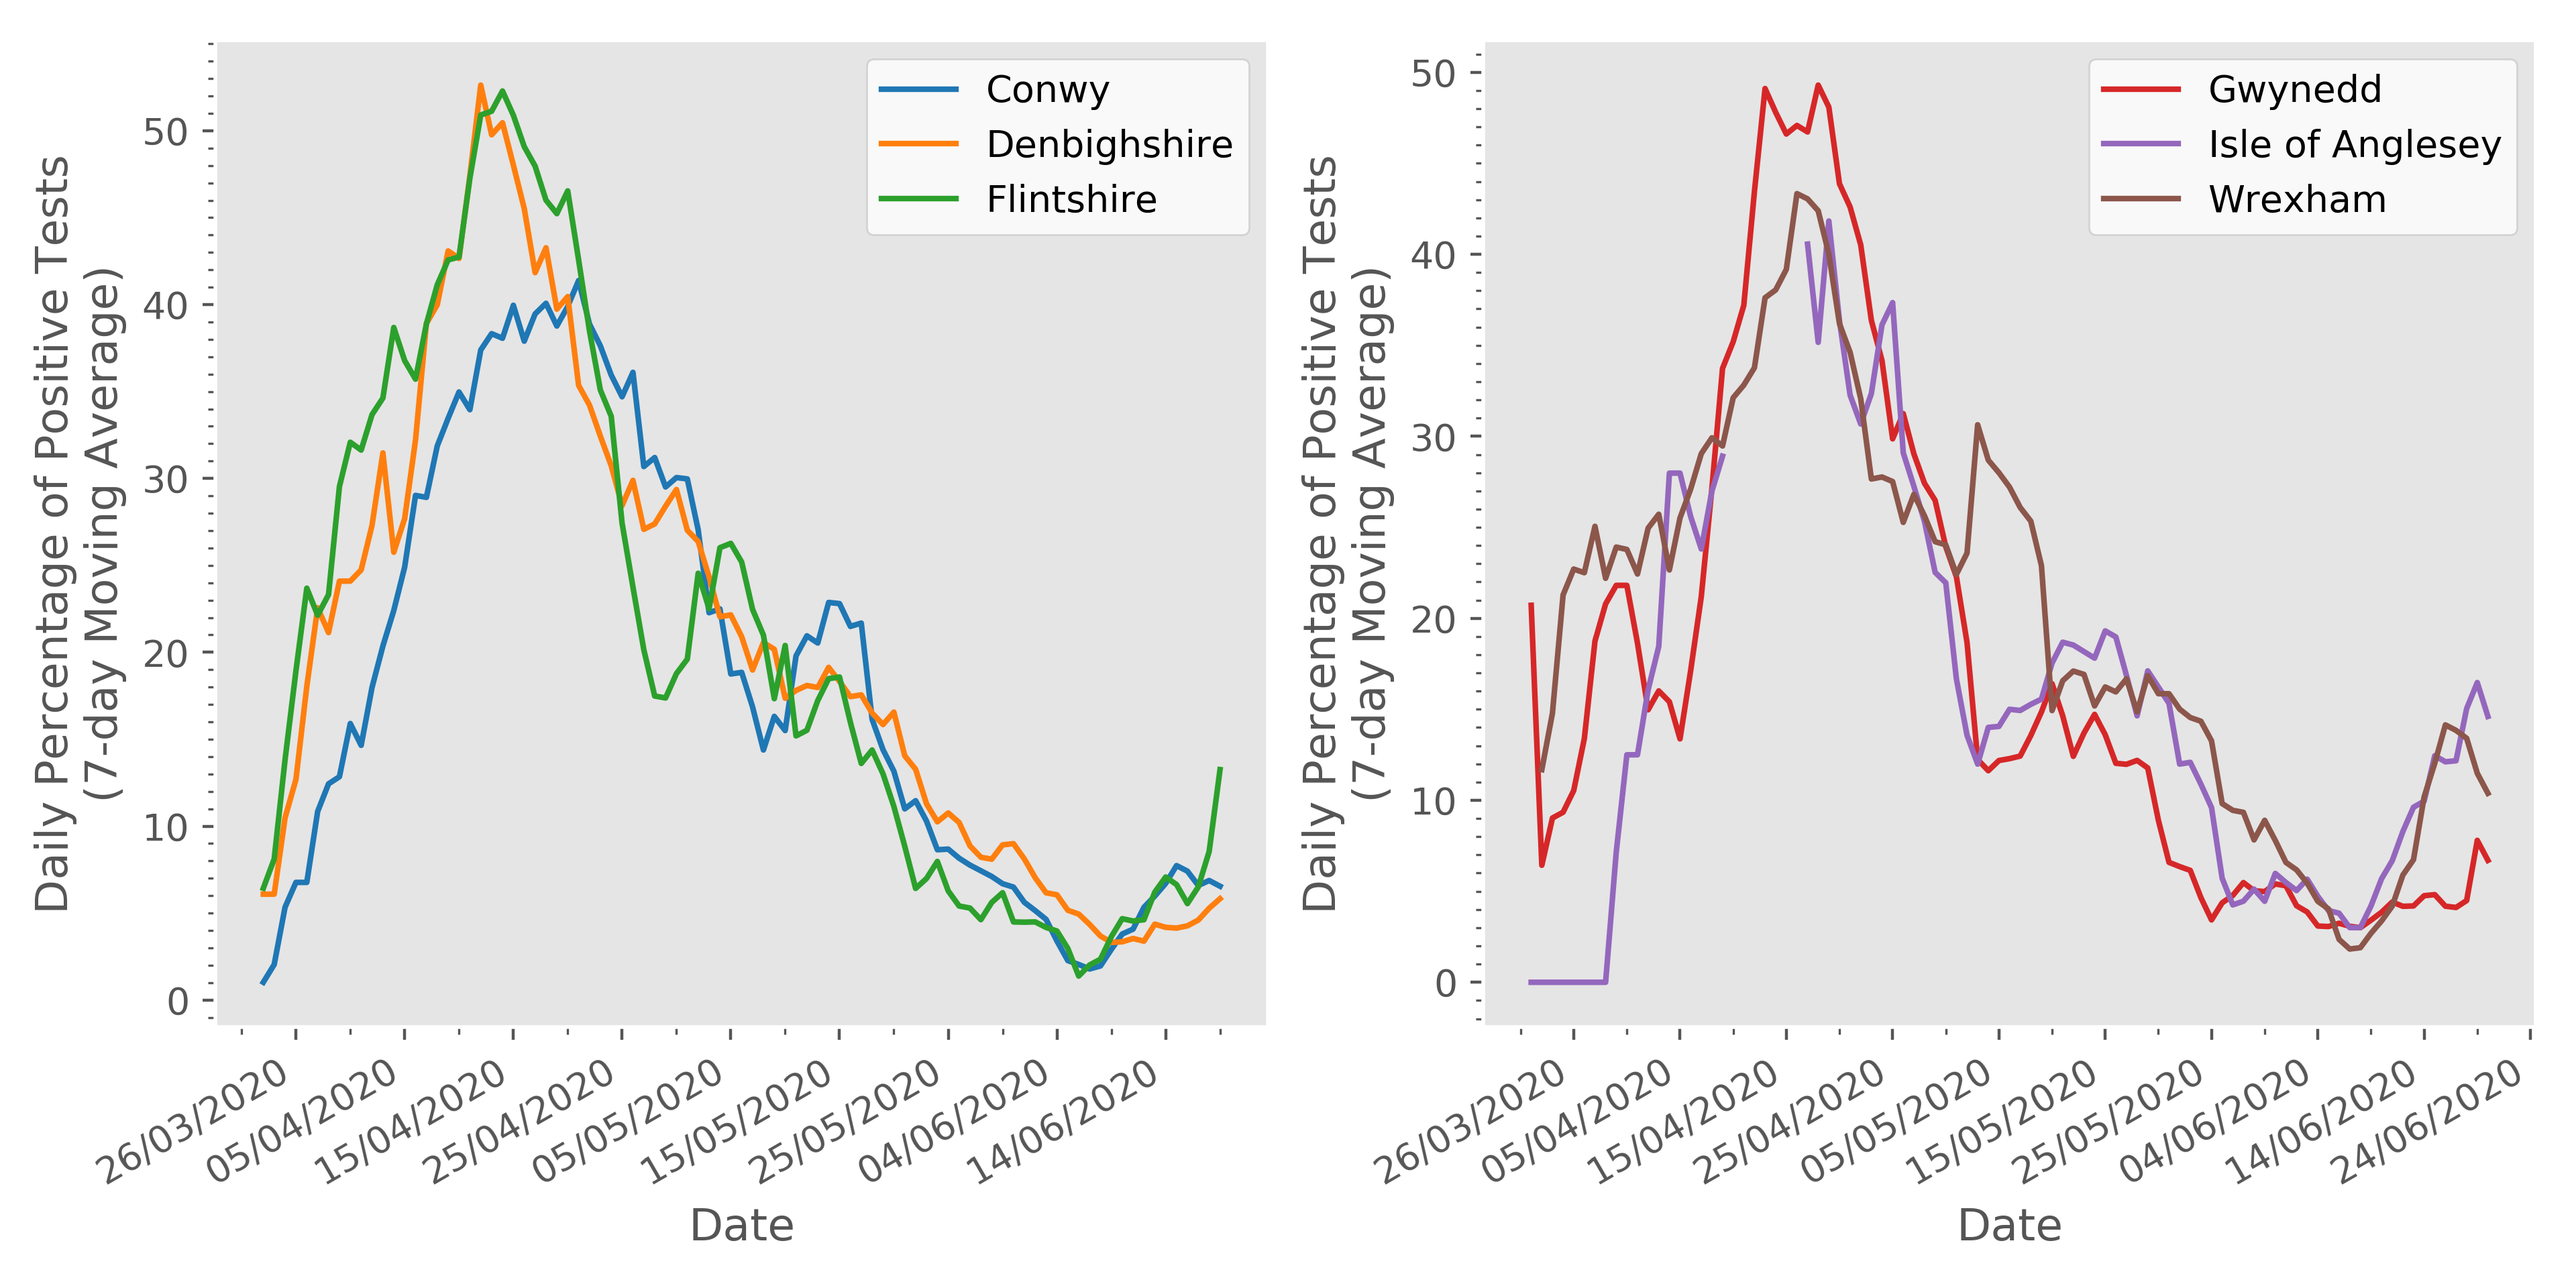
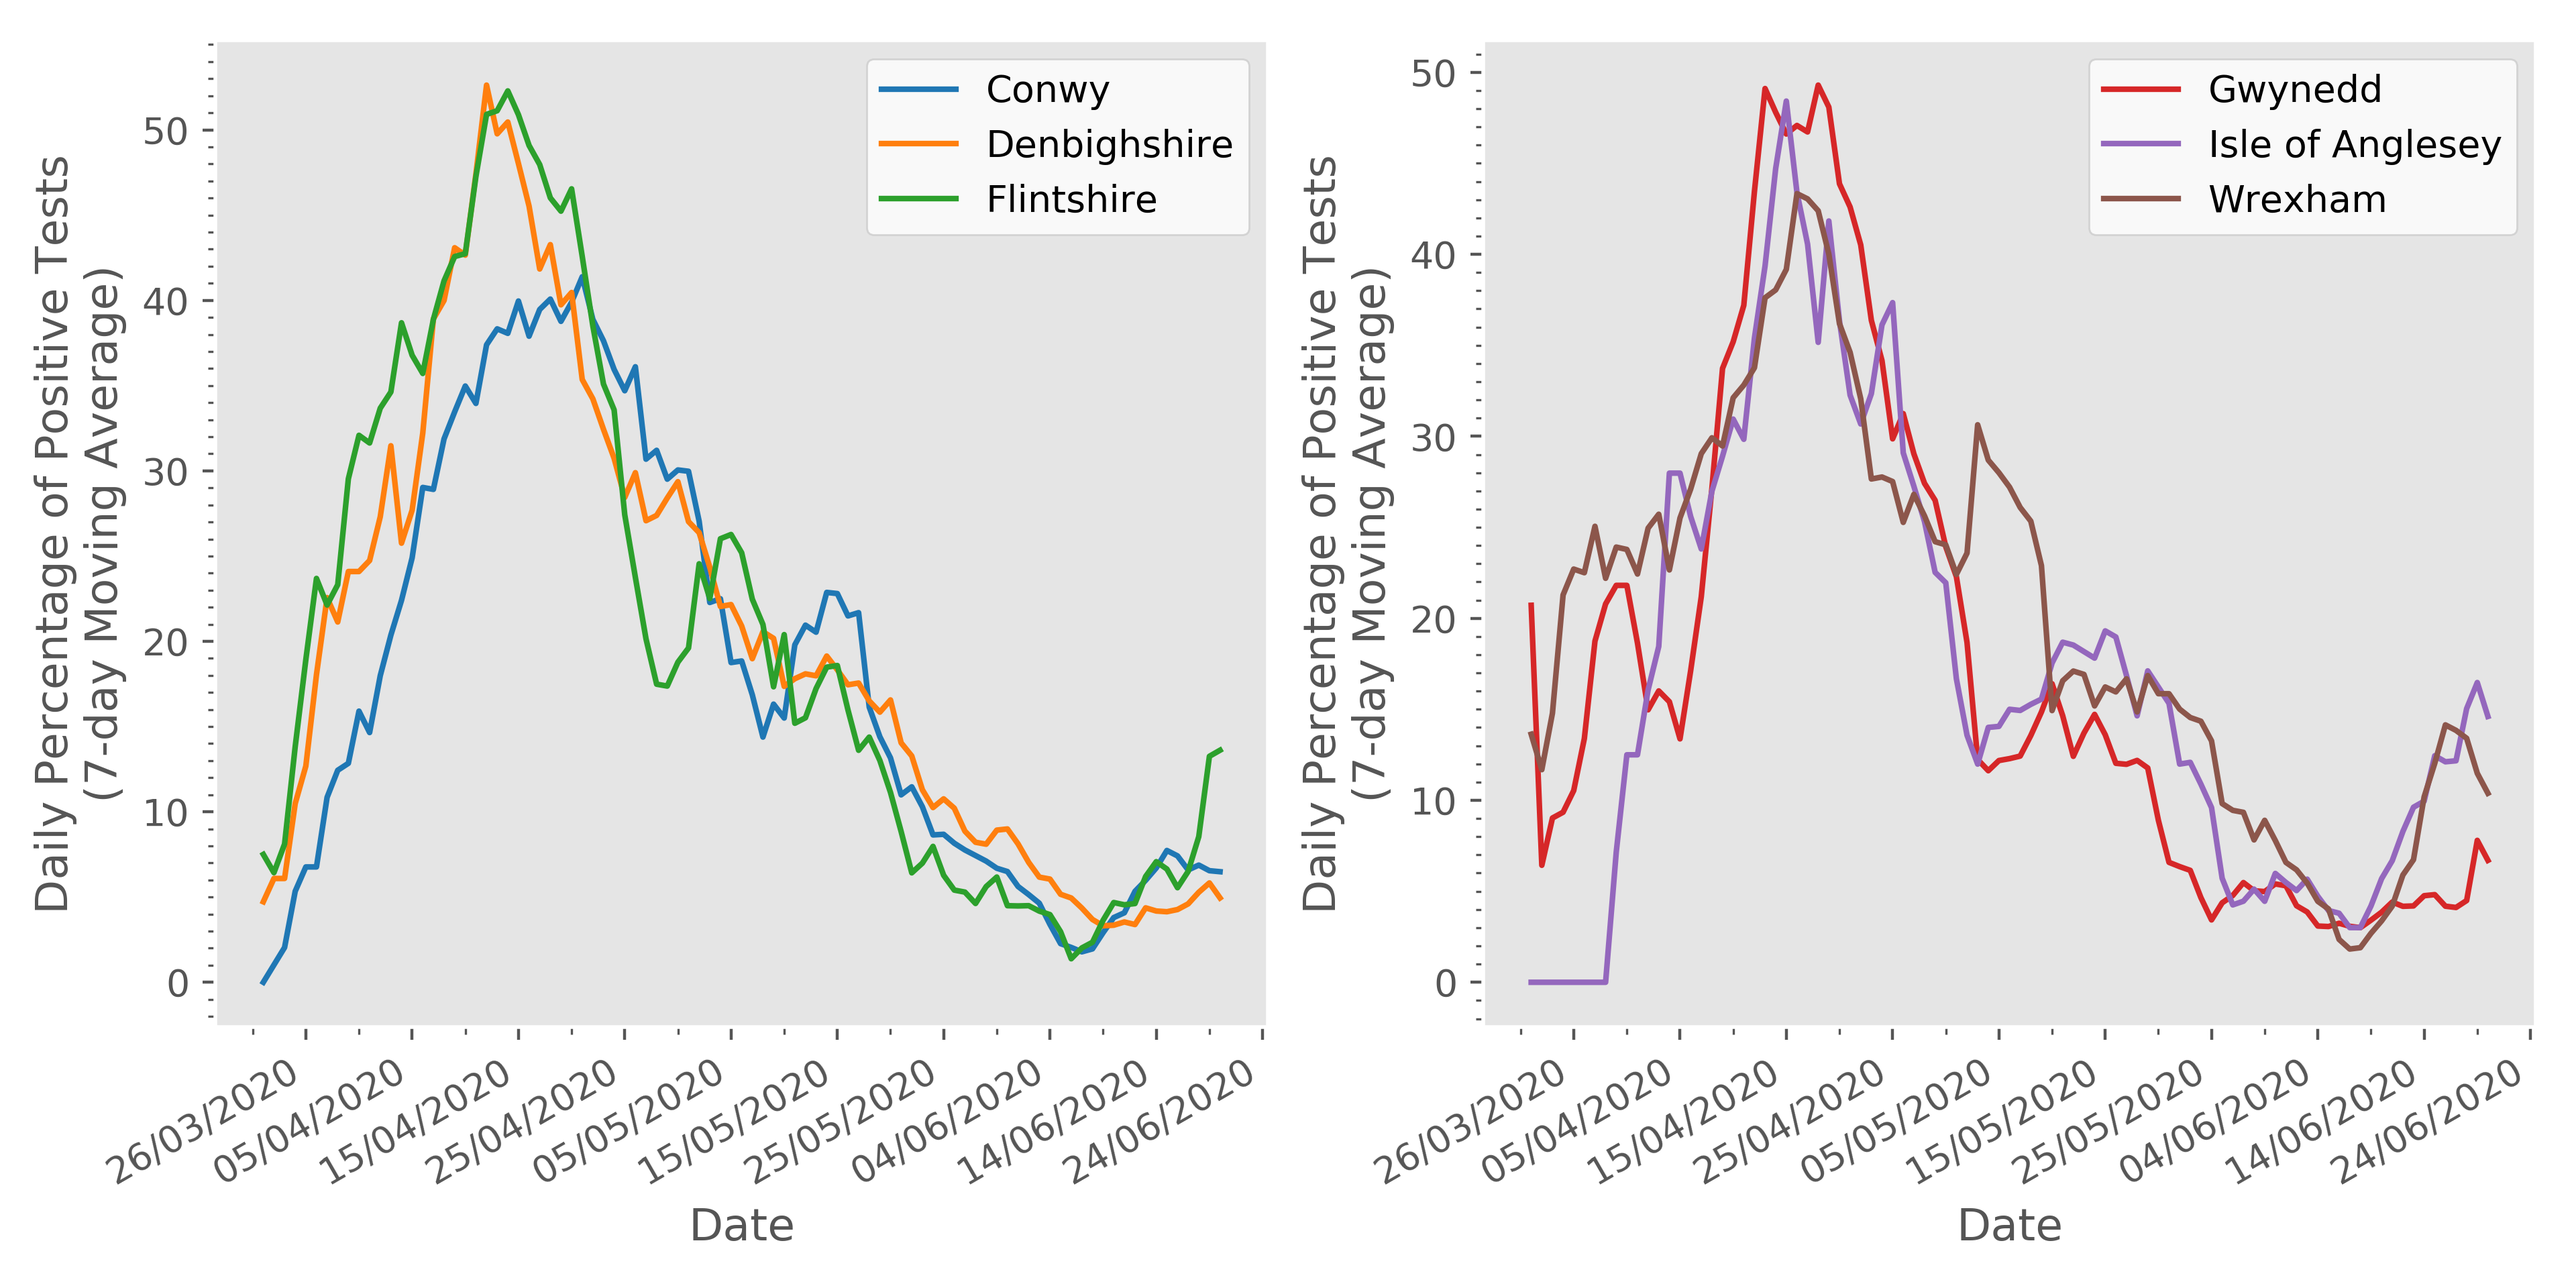
automatically added covid graphs

diff --git a/covid_n_wales/covid_n_wales_separated_tests.py b/covid_n_wales/covid_n_wales_separated_tests.py
@@ -55,10 +55,20 @@ for i in range(3):
     
     # Calculate 7-day moving average
     for j in range(7,len(new_cases)):
-        moving_average[j-7] = sum(new_cases[j-7:j]/testing_episodes[j-7:j]*100)/7
+        no_nans = 0
+        num_sum = 0
+        for l in range(j-7,j):
+            if testing_episodes[l] == 0:
+                no_nans += 1
+            else:
+                num_sum += new_cases[l]/testing_episodes[l]*100
+        if no_nans == 7:
+             moving_average[j-7] = 0
+        else:
+             moving_average[j-7] = num_sum/(7-no_nans)
 
     # Plot the data
-    plt.plot(date[:-7-15], moving_average[:-15], label=county_name, color=cmap(i))
+    plt.plot(date[:-7-32], moving_average[:-32], label=county_name, color=cmap(i))
 
 ax = plt.gca()
 
@@ -106,10 +116,20 @@ for i in range(3,6):
     
     # Calculate 7-day moving average
     for j in range(7,len(new_cases)):
-        moving_average[j-7] = sum(new_cases[j-7:j]/testing_episodes[j-7:j]*100)/7
+        no_nans = 0
+        num_sum = 0
+        for l in range(j-7,j):
+            if testing_episodes[l] == 0:
+                no_nans += 1
+            else:
+                num_sum += new_cases[l]/testing_episodes[l]*100
+        if no_nans == 7:
+             moving_average[j-7] = 0
+        else:
+             moving_average[j-7] = num_sum/(7-no_nans)
 
     # Plot the data
-    plt.plot(date[:-7-15], moving_average[:-15], label=county_name, color=cmap(i))
+    plt.plot(date[:-7-32], moving_average[:-32], label=county_name, color=cmap(i))
 
 ax = plt.gca()
 

diff --git a/covid_n_wales/covid_n_wales_tests.py b/covid_n_wales/covid_n_wales_tests.py
@@ -53,11 +53,20 @@ for i in range(len(county_list)):
     
     # Calculate 7-day moving average
     for j in range(7,len(new_cases)):
-        moving_average[j-7] = sum(new_cases[j-7:j]/testing_episodes[j-7:j]*100)/7
+        no_nans = 0
+        num_sum = 0
+        for l in range(j-7,j):
+            if testing_episodes[l] == 0:
+                no_nans += 1
+            else:
+                num_sum += new_cases[l]/testing_episodes[l]*100
+        if no_nans == 7:
+             moving_average[j-7] = 0
+        else:
+             moving_average[j-7] = num_sum/(7-no_nans)
 
     # Plot the data
-    plt.plot(date[:-7-15], moving_average[:-15], label=county_name, color=cmap(i))
-
+    plt.plot(date[:-7-32], moving_average[:-32], label=county_name, color=cmap(i))
 ax = plt.gca()
 
 # Remove gridlines
